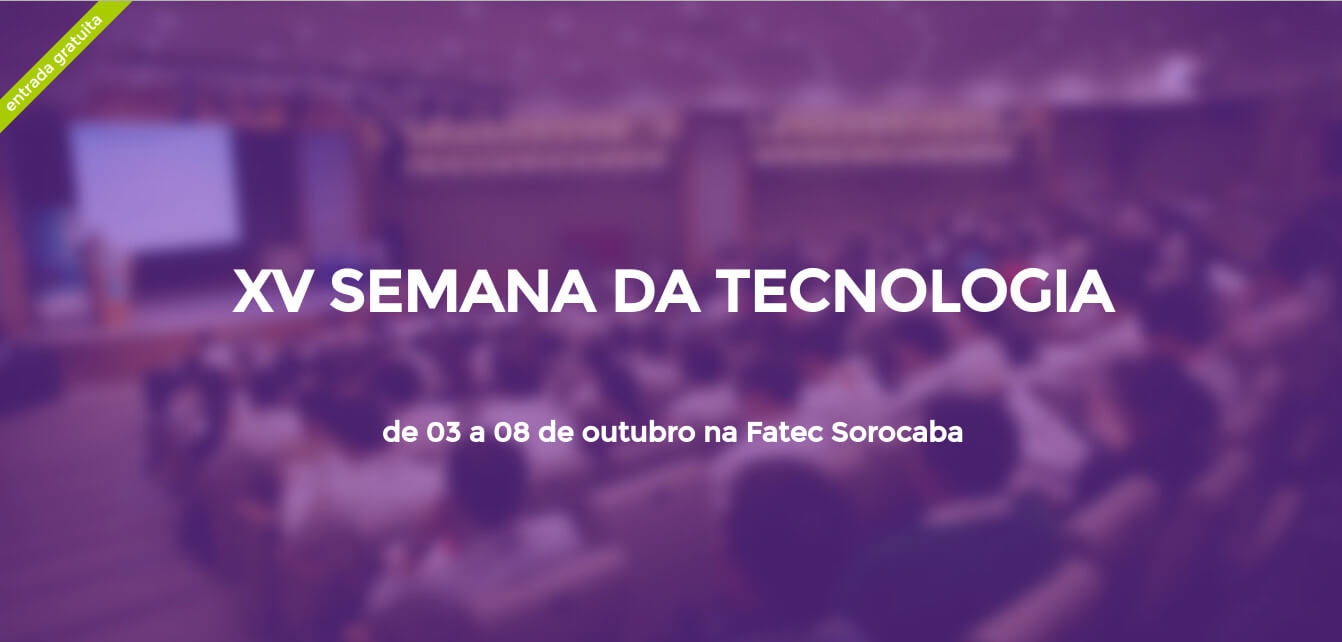
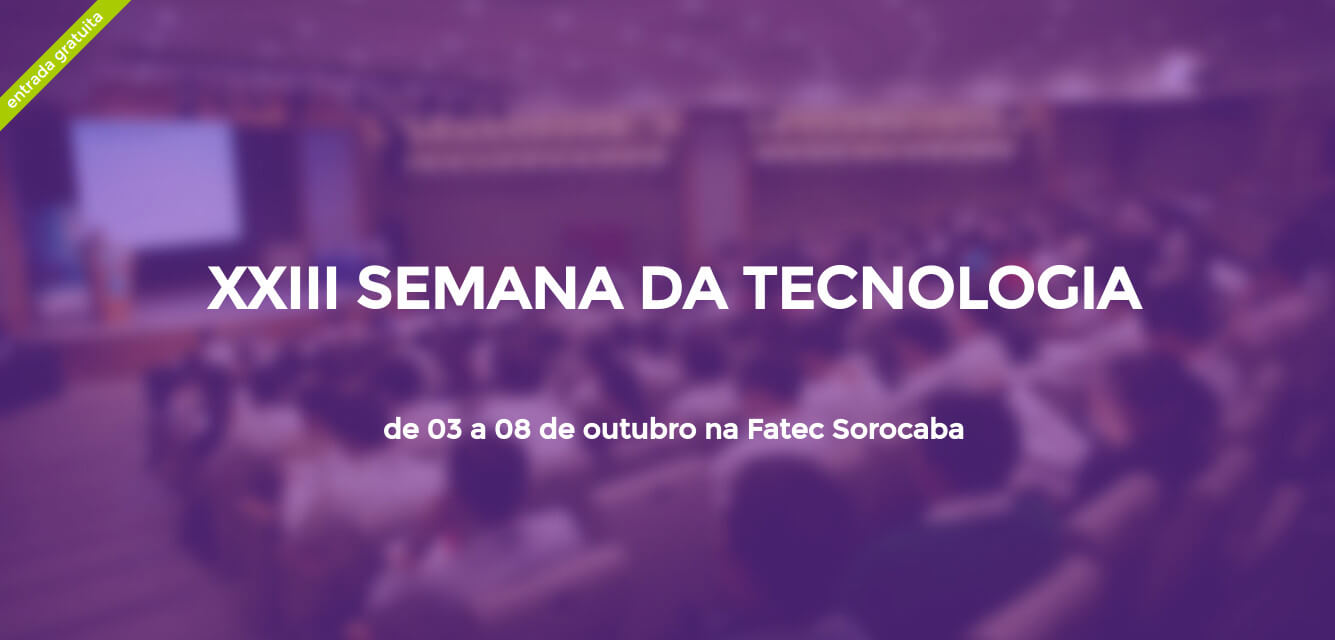
Update opengraph tags

Changed region(s): [[0.1536, 0.4062, 0.8599, 0.5312], [0.2764, 0.6562, 0.7371, 0.6875], [0.0, 0.0, 0.0921, 0.1875]]

diff --git a/index.html b/index.html
@@ -27,8 +27,8 @@
     <meta property="og:type" content="website">
     <meta property="og:locale" content="pt_BR">
     <meta property="og:url" content="https://fatecsorocaba.github.io/semana-da-tecnologia/">
-    <meta property="og:title" content="Semana da Tecnologia 2016 da Fatec Sorocaba">
-    <meta property="og:description" content="Semana da tecnologia 2016 da Fatec Sorocaba. Participe da primeira edição feita por alunos!">
+    <meta property="og:title" content="XXIII Semana da Tecnologia 2016 da Fatec Sorocaba">
+    <meta property="og:description" content="Participe da primeira edição feita por alunos! De 03 a 08 de outubro na Fatec Sorocaba.">
     <link href="https://maxcdn.bootstrapcdn.com/font-awesome/4.6.3/css/font-awesome.min.css" rel="stylesheet" integrity="sha384-T8Gy5hrqNKT+hzMclPo118YTQO6cYprQmhrYwIiQ/3axmI1hQomh7Ud2hPOy8SP1" crossorigin="anonymous">
     <link rel="stylesheet" href="css/style.min.css">
   </head>
